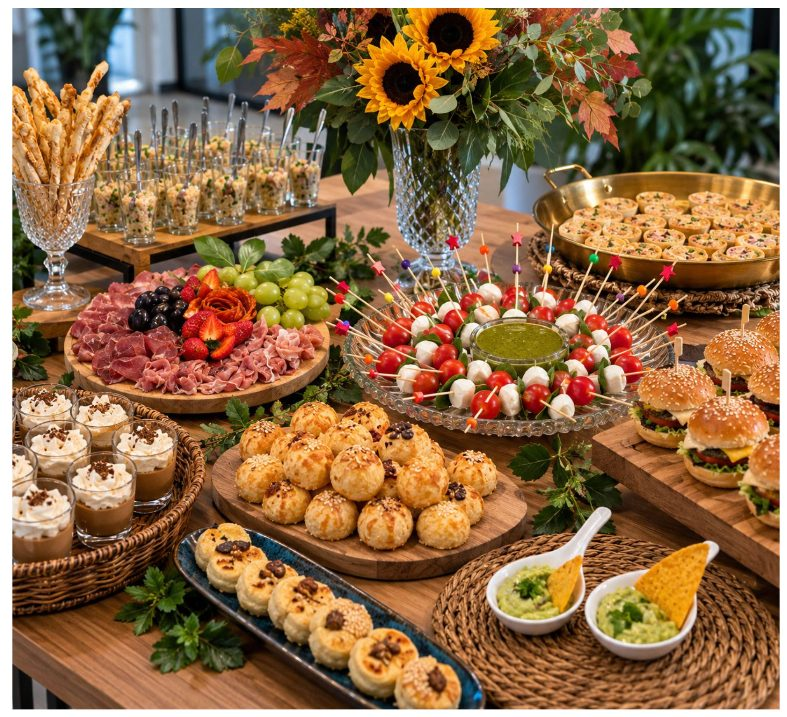
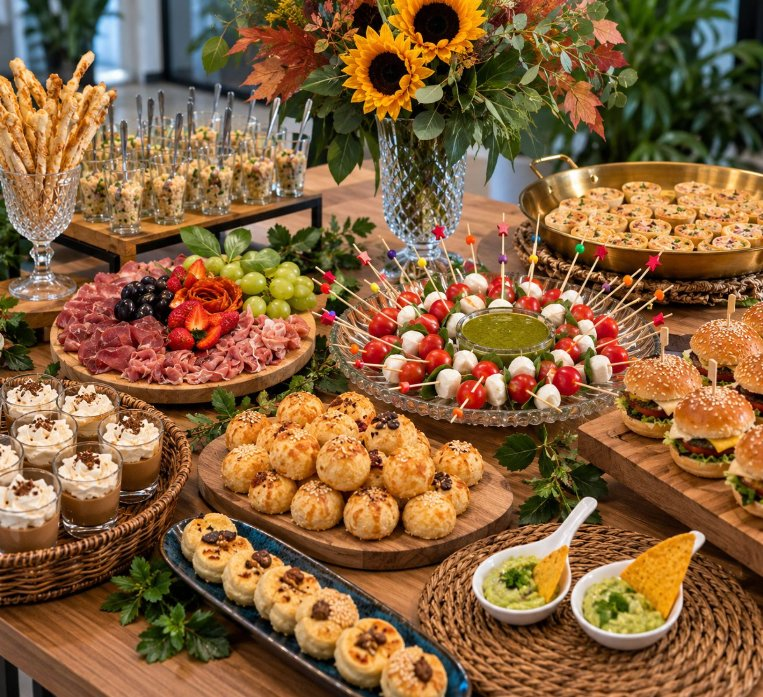
Remove borda branca de duas fotos da galeria e aumenta o lightbox
As fotos vindas de captura de tela tinham uma fina borda branca ao
redor; corta essa margem. O lightbox agora abre maior (ate 48rem em
telas grandes, limitado a 85% da altura da viewport).

Claude-Session: https://claude.ai/code/session_01UWZjaSJj8rzgi5bDHZ8d1h

diff --git a/src/components/sections/Gallery.tsx b/src/components/sections/Gallery.tsx
@@ -134,7 +134,7 @@ export function Gallery() {
           </button>
 
           <div
-            className="relative aspect-[3/4] w-full max-w-md sm:max-w-lg"
+            className="relative aspect-[3/4] max-h-[85vh] w-full max-w-xl sm:max-w-2xl lg:max-w-3xl"
             onClick={(e) => e.stopPropagation()}
           >
             {activeItem.image ? (
@@ -142,7 +142,7 @@ export function Gallery() {
                 src={activeItem.image}
                 alt={activeItem.imageAlt}
                 fill
-                sizes="(min-width: 640px) 32rem, 100vw"
+                sizes="(min-width: 1024px) 48rem, (min-width: 640px) 42rem, 100vw"
                 className="rounded-2xl object-contain"
               />
             ) : (
